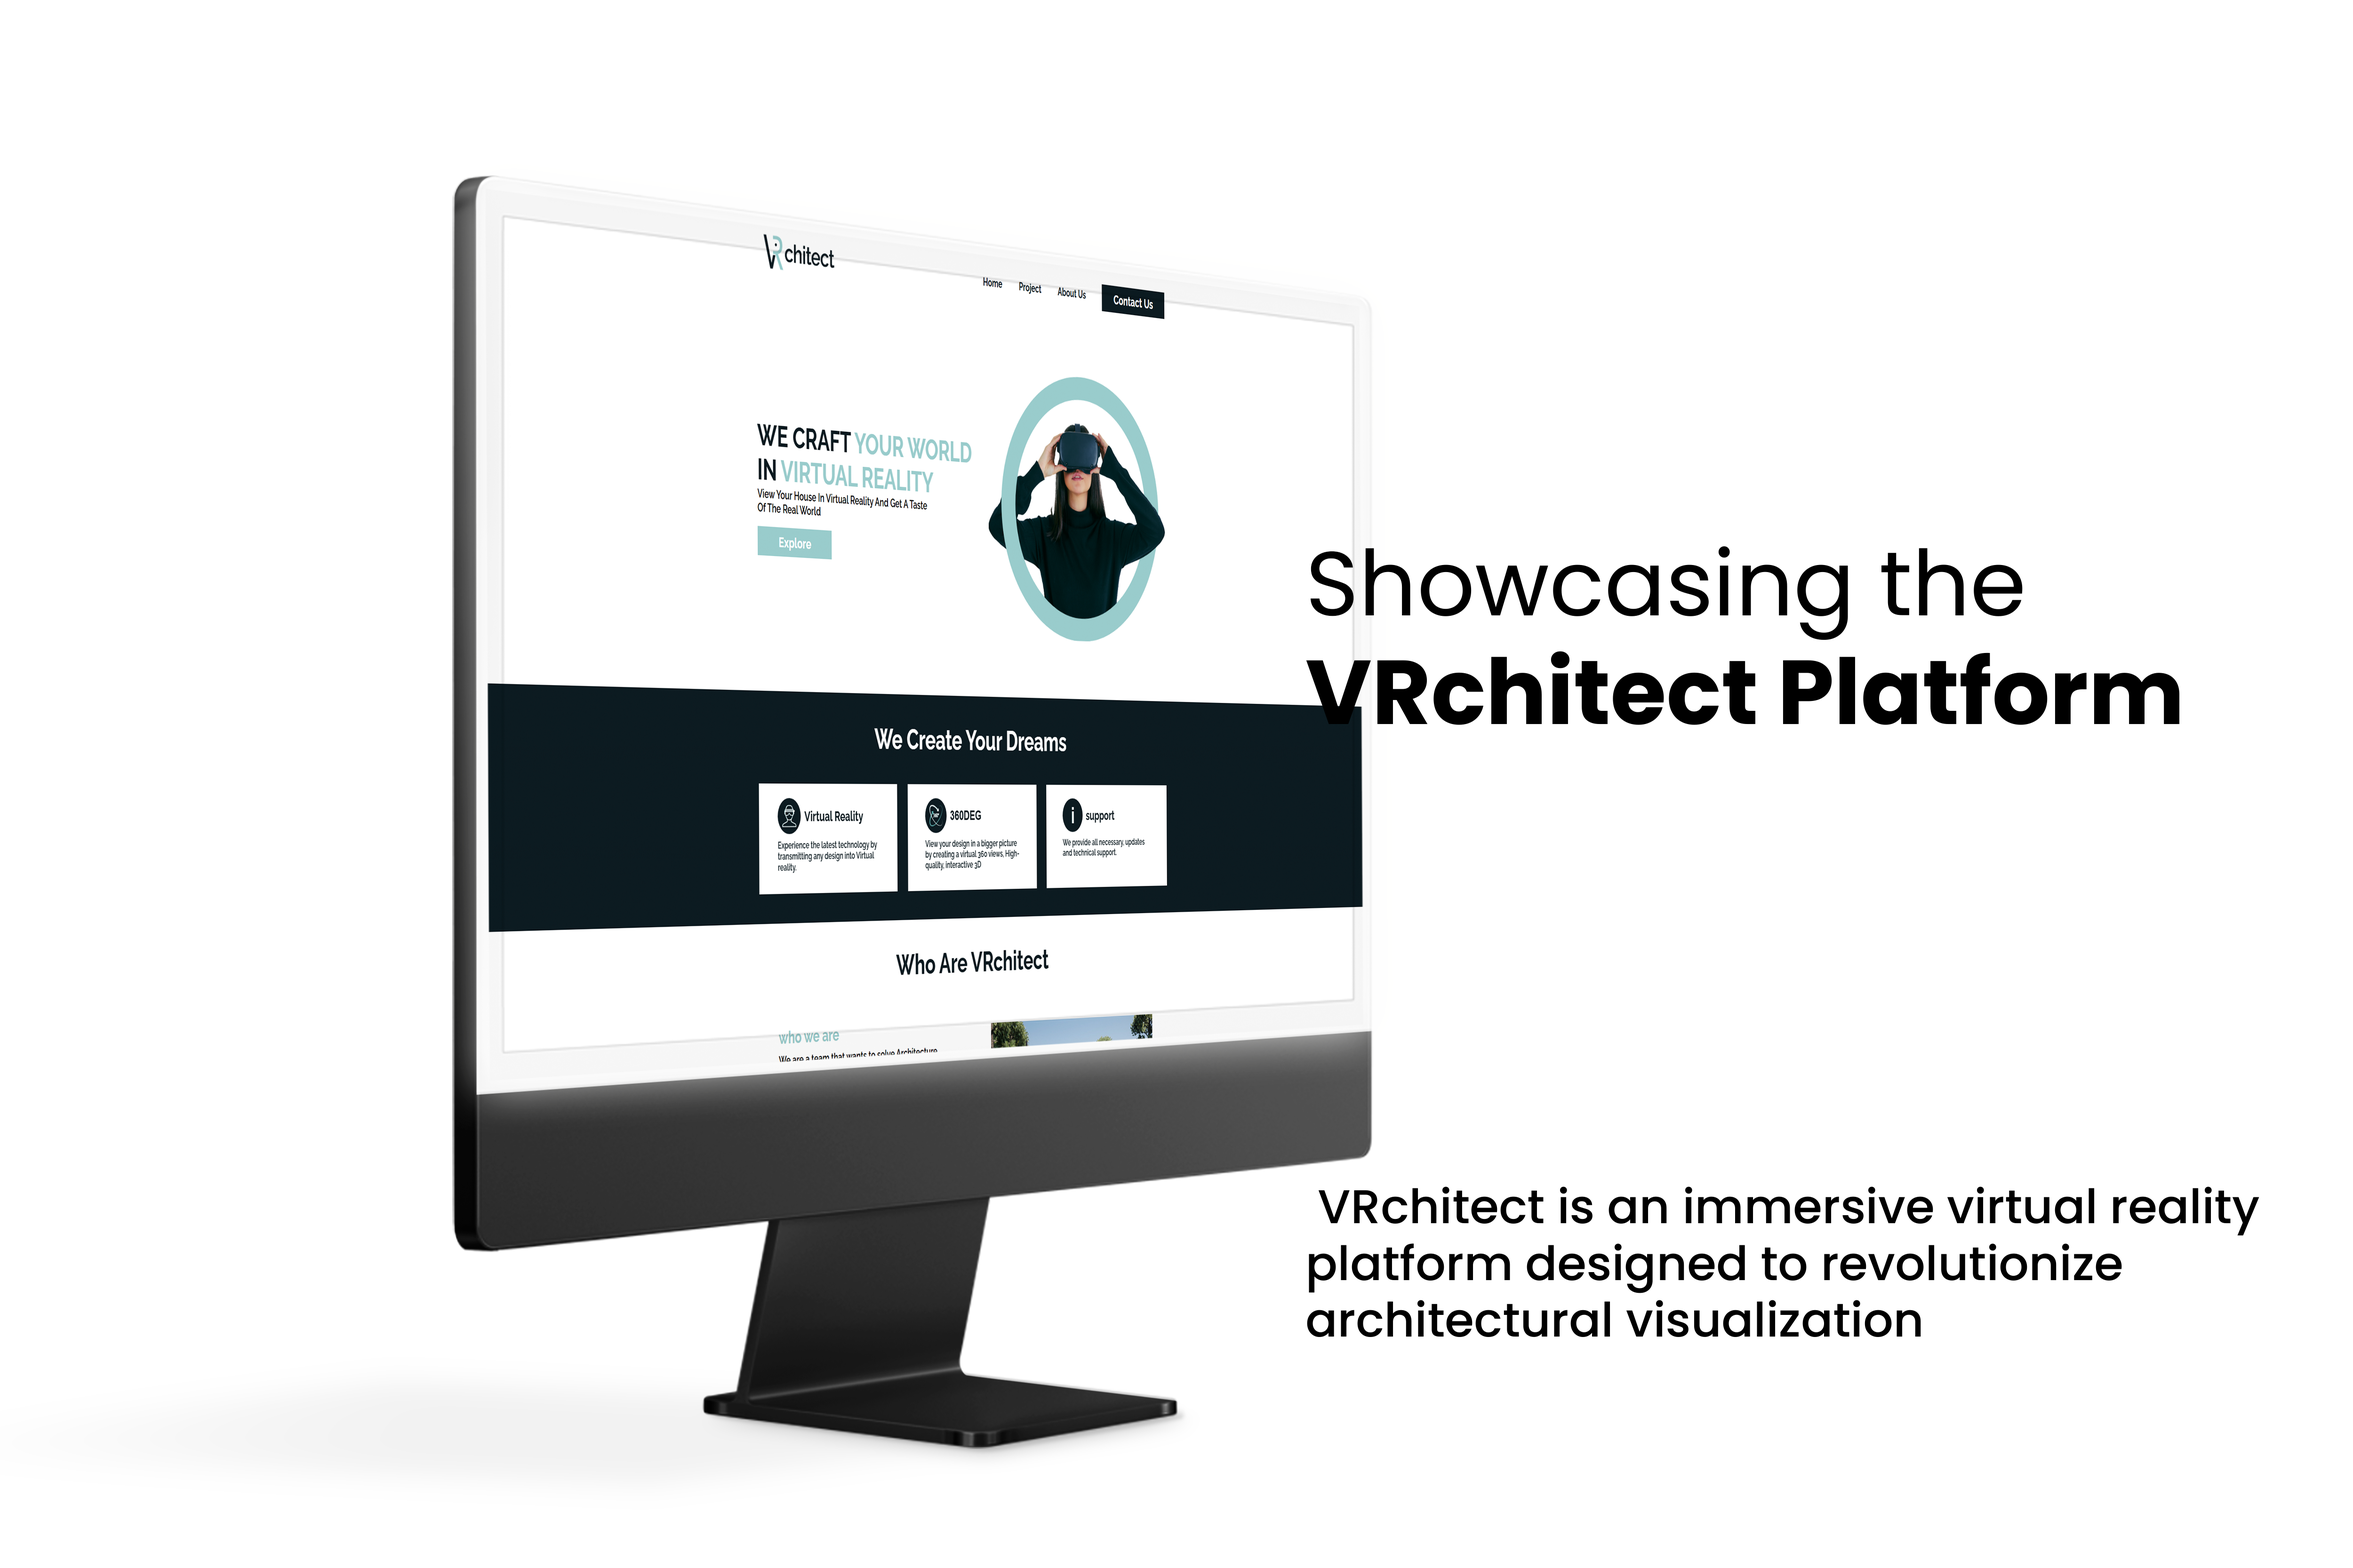
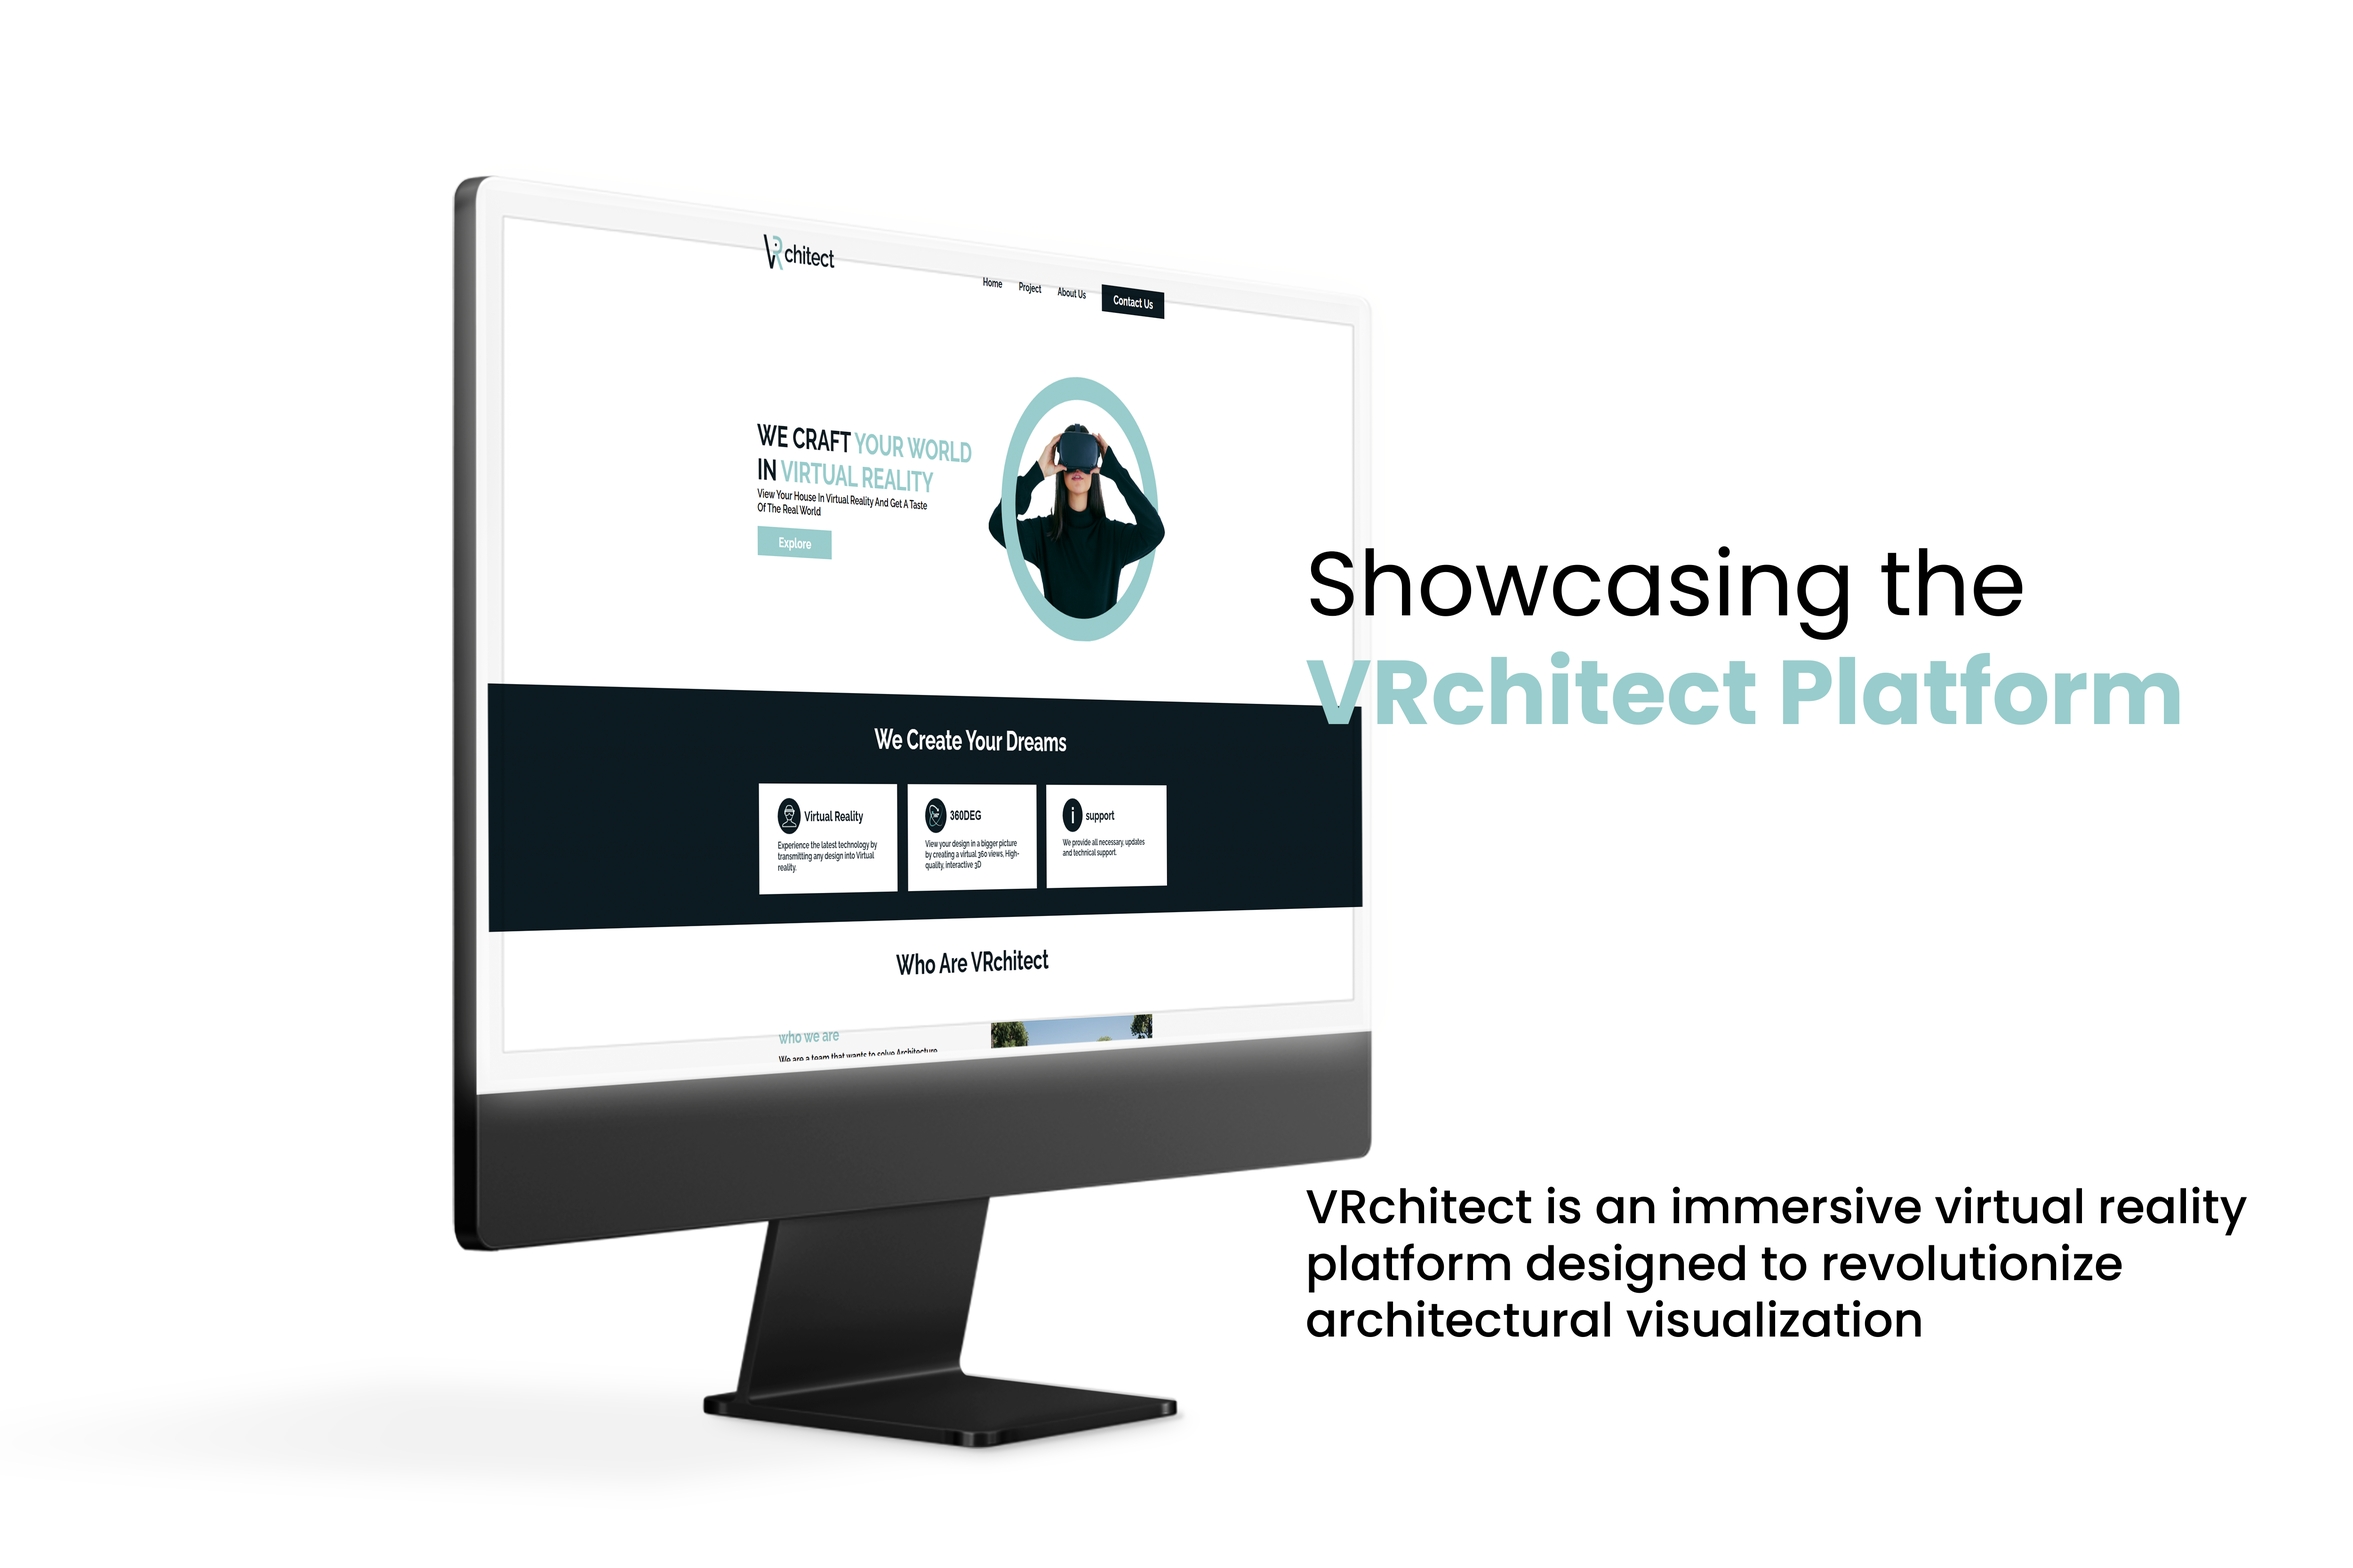
color change

Changed region(s): [[0.5616, 0.4056, 0.936, 0.468], [0.5616, 0.7489, 0.9672, 0.7801]]

diff --git a/Personal-Website/src/pages/CaseStudies/TimeBridgeCaseStudy.css b/Personal-Website/src/pages/CaseStudies/TimeBridgeCaseStudy.css
@@ -67,17 +67,17 @@
 .back-link {
   display: inline-flex;
   align-items: center;
-  color: #10B981;
+  color: #333333;
   text-decoration: none;
   font-weight: 500;
   padding: 0.75rem 1.5rem;
-  border: 2px solid #10B981;
+  border: 2px solid #333333;
   border-radius: 8px;
   transition: all 0.3s ease;
 }
 
 .back-link:hover {
-  background-color: #10B981;
+  background-color: #333333;
   color: #ffffff;
 }
 
@@ -116,7 +116,7 @@
   font-weight: 600;
   color: #333333;
   margin-bottom: 1rem;
-  border-bottom: 2px solid #10B981;
+  border-bottom: 2px solid #56279c;
   padding-bottom: 0.5rem;
 }
 
@@ -154,7 +154,7 @@
 .tb-highlights-list li:before,
 .tb-challenges-list li:before {
   content: "•";
-  color: #10B981;
+  color: #56279c;
   font-weight: bold;
   position: absolute;
   left: 0;
@@ -162,7 +162,7 @@
 
 .tb-tech-list li:before {
   content: "▸";
-  color: #10B981;
+  color: #56279c;
   position: absolute;
   left: 0;
 }
@@ -176,11 +176,11 @@
 .tb-role {
   font-size: 1.2rem;
   font-weight: 600;
-  color: #10B981;
-  background: rgba(16, 185, 129, 0.1);
+  color: #56279c;
+  background: #56279c13;
   padding: 1rem;
   border-radius: 8px;
-  border-left: 4px solid #10B981;
+  border-left: 4px solid #56279c;
 }
 
 /* Responsive Design */

diff --git a/Personal-Website/src/pages/CaseStudies/VRchitectCaseStudy.css b/Personal-Website/src/pages/CaseStudies/VRchitectCaseStudy.css
@@ -73,17 +73,17 @@
 .back-link {
   display: inline-flex;
   align-items: center;
-  color: #8B5CF6;
+  color: #a8cbcb;
   text-decoration: none;
   font-weight: 500;
   padding: 0.75rem 1.5rem;
-  border: 2px solid #8B5CF6;
+  border: 2px solid #a8cbcb;
   border-radius: 8px;
   transition: all 0.3s ease;
 }
 
 .back-link:hover {
-  background-color: #8B5CF6;
+  background-color: #a8cbcb;
   color: #ffffff;
 }
 
@@ -122,7 +122,7 @@
   font-weight: 600;
   color: #333333;
   margin-bottom: 1rem;
-  border-bottom: 2px solid #8B5CF6;
+  border-bottom: 2px solid #a8cbcb;
   padding-bottom: 0.5rem;
 }
 
@@ -160,7 +160,7 @@
 .vr-highlights-list li:before,
 .vr-challenges-list li:before {
   content: "•";
-  color: #8B5CF6;
+  color: #a8cbcb;
   font-weight: bold;
   position: absolute;
   left: 0;
@@ -168,7 +168,7 @@
 
 .vr-tech-list li:before {
   content: "▸";
-  color: #8B5CF6;
+  color: #a8cbcb;
   position: absolute;
   left: 0;
 }
@@ -182,11 +182,11 @@
 .vr-role {
   font-size: 1.2rem;
   font-weight: 600;
-  color: #8B5CF6;
-  background: rgba(139, 92, 246, 0.1);
+  color: #a8cbcb;
+  background: #a8cbcb23;
   padding: 1rem;
   border-radius: 8px;
-  border-left: 4px solid #8B5CF6;
+  border-left: 4px solid #a8cbcb;
 }
 
 /* Responsive Design */
